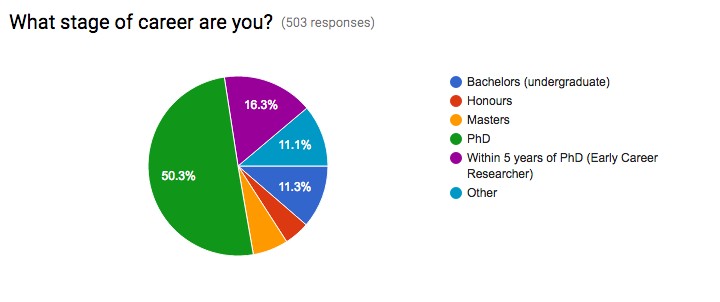
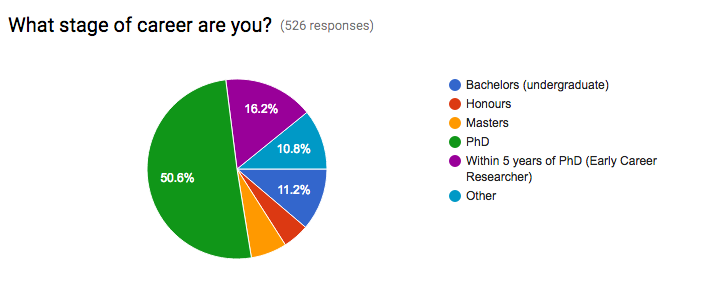
+3 to 515, updated pic

diff --git a/index.html b/index.html
@@ -126,6 +126,7 @@ bv<!DOCTYPE html>
 <tr><td>Bryce Kelly</td><td>Earth and Environmental Sciences</td><td>UNSW Australia</td></tr>
 <tr><td>Byju Pookkandy</td><td>Climate Science</td><td>Monash University</td></tr>
 <tr><td>Caitlin Buckle</td><td>Human Geography</td><td>University of New South Wales</td></tr>
+<tr><td>Caitlin Moore</td><td>Micrometeorology/Ecosystem Science</td><td>Monash University</td></tr>
 <tr><td>Caleb Maru</td><td>Bachelors (undergraduate)</td><td>University of South Australia</td></tr>
 <tr><td>Calum Robertson</td><td>General Relativity</td><td>Monash University</td></tr>
 <tr><td>Cameron Dover</td><td>Molecular photonics</td><td>UNSW</td></tr>
@@ -214,6 +215,7 @@ bv<!DOCTYPE html>
 <tr><td>Felicity Hatton </td><td>Ecology</td><td>University of Canberra </td></tr>
 <tr><td>Frances Alexander</td><td>Ecotoxicology</td><td>Australian Antarctic Division and Southern Cross University</td></tr>
 <tr><td>Francesco Marra</td><td>Hydrometeorology</td><td></td></tr>
+<tr><td>Francisco Lang</td><td>Boundary Layer Meteorology</td><td>Monash University</td></tr>
 <tr><td>Gabriel Paiva Lago</td><td>Land and water contamination</td><td>UTS</td></tr>
 <tr><td>Gabriela Arcoverde</td><td>Environmental Science </td><td></td></tr>
 <tr><td>Gabriella Macoustra</td><td>Environmental toxicology</td><td>University of Wollongong</td></tr>
@@ -479,6 +481,7 @@ bv<!DOCTYPE html>
 <tr><td>Sarah Anderson</td><td>Planning and Environmental Management</td><td>Macquarie University</td></tr>
 <tr><td>Sarah Collins</td><td>Education</td><td></td></tr>
 <tr><td>Sarah Kachovich</td><td>Micropalaeontology</td><td>University of Queensland </td></tr>
+<tr><td>Sarah Maclagan</td><td>Ecology</td><td>Deakin University</td></tr>
 <tr><td>Sarah MacLeod</td><td>Geoscience</td><td>University of Sydney</td></tr>
 <tr><td>Sarah Mitchell</td><td>Geography</td><td>University of Otago</td></tr>
 <tr><td>Sarah Perkins-Kirkpatrick</td><td>Climate Extremes - Heatwaves</td><td>Climate Change Research Centre, UNSW Australia</td></tr>
